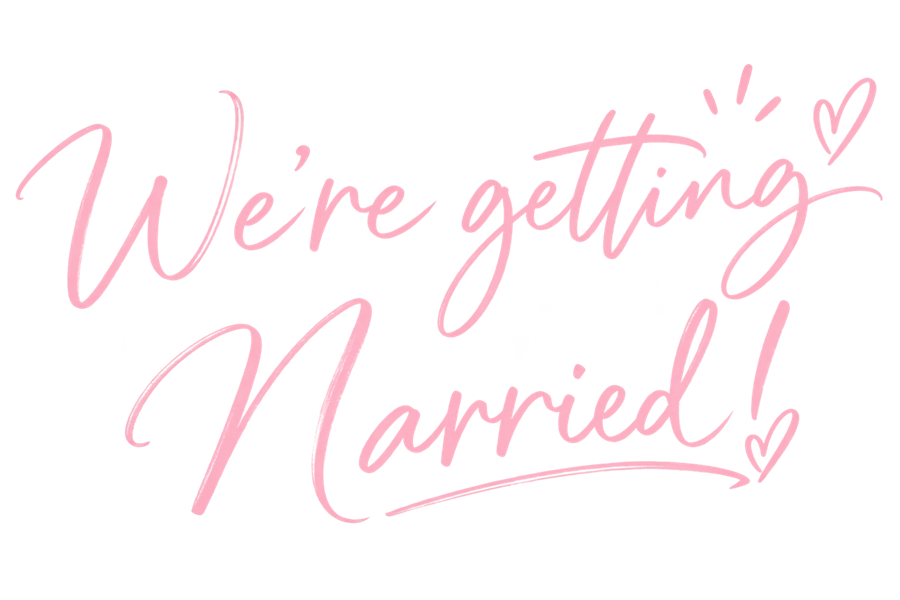
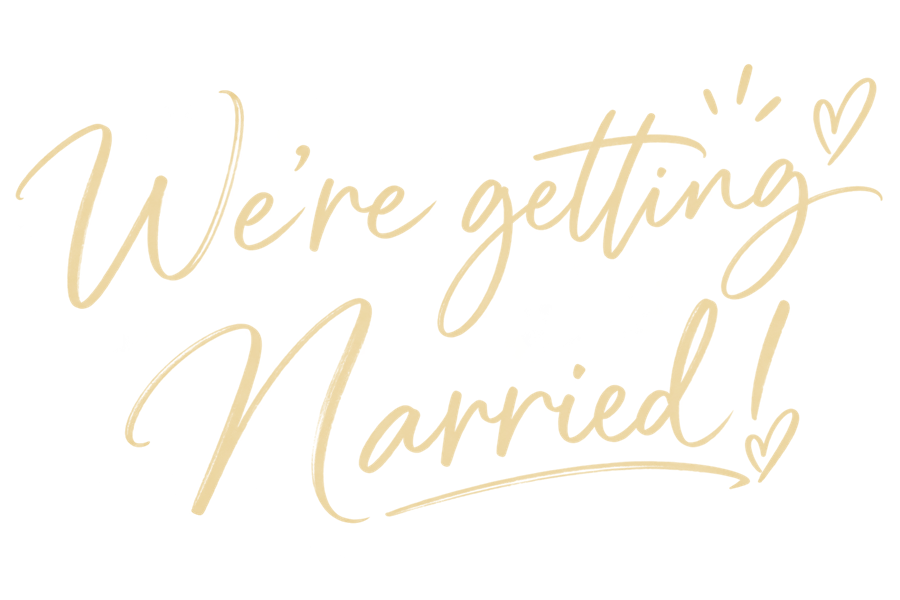
Apply the v2 yellow/gold redesign
Accent moves from pink #e9a8bc to gold #d9ab41: page and ending
gradients, hero "그리고" tint, and button shadows (now driven by an
--accent-shadow variable computed from the sheet's accentColor). The
hero lettering PNG is recolored to gold locally, preserving stroke
lightness, since the canvas asset exceeds the connector's 256KiB cap.

diff --git a/style.css b/style.css
@@ -1,8 +1,9 @@
 @import url('https://fonts.googleapis.com/css2?family=Gowun+Batang:wght@400;700&family=Parisienne&family=Noto+Sans+KR:wght@300;400;500&display=swap');
 
 :root{
-  --accent: #e9a8bc;
-  --accent-soft: #f3d3dd;
+  --accent: #d9ab41;
+  --accent-soft: #ecd9a0;
+  --accent-shadow: rgba(217,177,79,.35);
 }
 
 *{box-sizing:border-box}
@@ -22,7 +23,7 @@ input{font:inherit}
 #page{
   max-width:430px;
   margin:0 auto;
-  background:linear-gradient(180deg,#fdfcf9 0%,#fbf6f1 30%,#faf1ee 55%,#f9ecec 80%,#fdf7f5 100%);
+  background:linear-gradient(180deg,#fdfcf9 0%,#fcf8ee 30%,#fbf4e2 55%,#faf0d8 80%,#fdf8ec 100%);
   box-shadow:0 0 40px rgba(90,75,60,.12);
   overflow:hidden;
   min-height:100vh;
@@ -79,7 +80,7 @@ input{font:inherit}
   animation:softFade 2s ease 2.6s both;
 }
 .sec-hero .hero-names{font-size:20px;letter-spacing:6px;color:#5a5148}
-.sec-hero .hero-names .and{color:#e9b7c4;font-size:15px}
+.sec-hero .hero-names .and{color:#e0c470;font-size:15px}
 .sec-hero .hero-date,.sec-hero .hero-venue{
   margin-top:10px;font-family:'Noto Sans KR',sans-serif;font-weight:300;font-size:13px;letter-spacing:2px;color:#8a8078;
 }
@@ -119,7 +120,7 @@ section{padding:80px 34px}
 .interview-list .a-text{margin-top:10px;font-size:14px;line-height:1.95;color:#7d746b;white-space:pre-line}
 .solid-btn{
   font-family:'Noto Sans KR',sans-serif;font-size:13px;letter-spacing:2px;color:#fff;background:var(--accent);
-  border:none;border-radius:999px;padding:14px 34px;cursor:pointer;box-shadow:0 6px 16px rgba(233,183,196,.45);
+  border:none;border-radius:999px;padding:14px 34px;cursor:pointer;box-shadow:0 6px 16px var(--accent-shadow);
 }
 .center-btn-row{text-align:center;margin-top:34px}
 
@@ -191,12 +192,12 @@ section{padding:80px 34px}
 .step-btn{width:28px;height:28px;border-radius:50%;border:1px solid #eee2d8;background:#fff;color:#9c8f85;font-size:15px;cursor:pointer;line-height:1}
 .solid-btn-block{
   font-family:'Noto Sans KR',sans-serif;font-size:13.5px;letter-spacing:2px;color:#fff;background:var(--accent);
-  border:none;border-radius:12px;padding:15px 0;cursor:pointer;box-shadow:0 6px 16px rgba(233,183,196,.45);width:100%;
+  border:none;border-radius:12px;padding:15px 0;cursor:pointer;box-shadow:0 6px 16px var(--accent-shadow);width:100%;
 }
 .rsvp-open-row{text-align:center}
 .solid-btn-lg{
   margin-top:32px;font-family:'Noto Sans KR',sans-serif;font-size:13.5px;letter-spacing:2px;color:#fff;background:var(--accent);
-  border:none;border-radius:999px;padding:15px 40px;cursor:pointer;box-shadow:0 6px 16px rgba(233,183,196,.45);
+  border:none;border-radius:999px;padding:15px 40px;cursor:pointer;box-shadow:0 6px 16px var(--accent-shadow);
 }
 
 /* ---------- section: accounts ---------- */
@@ -214,7 +215,7 @@ section{padding:80px 34px}
 /* ---------- section: ending ---------- */
 .sec-ending{position:relative;padding:0}
 .ending-photo-wrap{height:520px;position:relative}
-.ending-fade{position:absolute;inset:0;pointer-events:none;background:linear-gradient(180deg,#faf0ee 0%,rgba(250,240,238,0) 22%,rgba(252,244,242,0) 60%,rgba(252,245,243,.9) 92%,#fcf5f3 100%)}
+.ending-fade{position:absolute;inset:0;pointer-events:none;background:linear-gradient(180deg,#faf2dc 0%,rgba(250,242,220,0) 22%,rgba(252,246,230,0) 60%,rgba(252,247,232,.9) 92%,#fcf7e8 100%)}
 .ending-body{padding:10px 34px 70px;text-align:center}
 .ending-title{font-family:Parisienne,cursive;font-size:26px;color:var(--accent)}
 .ending-lead{margin:20px 0 0;font-size:14px;line-height:2.1;color:#6e675f}
@@ -225,7 +226,7 @@ section{padding:80px 34px}
 }
 .solid-btn-pill{
   font-family:'Noto Sans KR',sans-serif;font-size:12.5px;letter-spacing:1px;color:#fff;background:var(--accent);
-  border:none;border-radius:999px;padding:13px 28px;cursor:pointer;box-shadow:0 6px 16px rgba(233,183,196,.45);
+  border:none;border-radius:999px;padding:13px 28px;cursor:pointer;box-shadow:0 6px 16px var(--accent-shadow);
 }
 .ending-sign{margin-top:50px;font-family:Parisienne,cursive;font-size:17px;color:#d9c8bc}
 

diff --git a/script.js b/script.js
@@ -76,15 +76,23 @@ function setImgSlot(slotEl, driveId, altText) {
   slotEl.appendChild(img);
 }
 
-function lighten(hex, amt) {
-  const c = (hex || '#e9a8bc').replace('#', '');
+function hexToChannels(hex) {
+  const c = (hex || '#d9ab41').replace('#', '');
   const num = parseInt(c.length === 3 ? c.split('').map(x => x + x).join('') : c, 16);
-  if (Number.isNaN(num)) return '#f3d3dd';
-  let r = (num >> 16) & 0xff, g = (num >> 8) & 0xff, b = num & 0xff;
-  r = Math.min(255, Math.round(r + (255 - r) * amt));
-  g = Math.min(255, Math.round(g + (255 - g) * amt));
-  b = Math.min(255, Math.round(b + (255 - b) * amt));
-  return '#' + [r, g, b].map(x => x.toString(16).padStart(2, '0')).join('');
+  if (Number.isNaN(num)) return null;
+  return [(num >> 16) & 0xff, (num >> 8) & 0xff, num & 0xff];
+}
+
+function lighten(hex, amt) {
+  const ch = hexToChannels(hex);
+  if (!ch) return '#ecd9a0';
+  return '#' + ch.map(x => Math.min(255, Math.round(x + (255 - x) * amt)).toString(16).padStart(2, '0')).join('');
+}
+
+function hexToRgba(hex, alpha) {
+  const ch = hexToChannels(hex);
+  if (!ch) return `rgba(217,177,79,${alpha})`;
+  return `rgba(${ch[0]},${ch[1]},${ch[2]},${alpha})`;
 }
 
 function nl2br(str) {
@@ -163,9 +171,10 @@ function renderPage(data) {
   const { info, interviews, galleryIds, story, notices, accountGroups } = data;
 
   // 색상
-  const accent = info.accentColor && /^#[0-9a-fA-F]{3,6}$/.test(info.accentColor) ? info.accentColor : '#e9a8bc';
+  const accent = info.accentColor && /^#[0-9a-fA-F]{3,6}$/.test(info.accentColor) ? info.accentColor : '#d9ab41';
   document.documentElement.style.setProperty('--accent', accent);
   document.documentElement.style.setProperty('--accent-soft', lighten(accent, 0.45));
+  document.documentElement.style.setProperty('--accent-shadow', hexToRgba(accent, 0.35));
 
   // 드라이브 폴더에 사진이 있으면 그것을 우선 사용, 없으면 시트에 적힌 파일 ID 사용
   const photos = data.photos || {};
